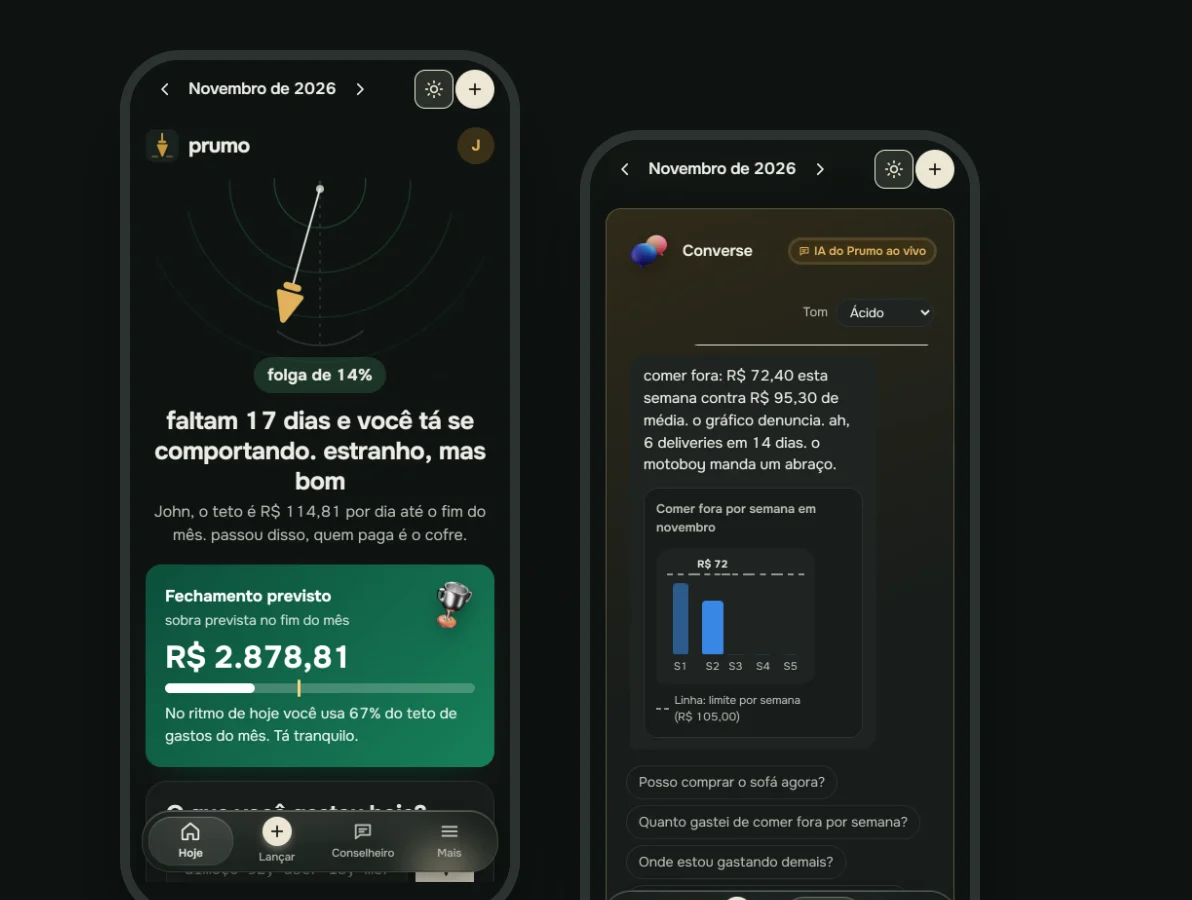
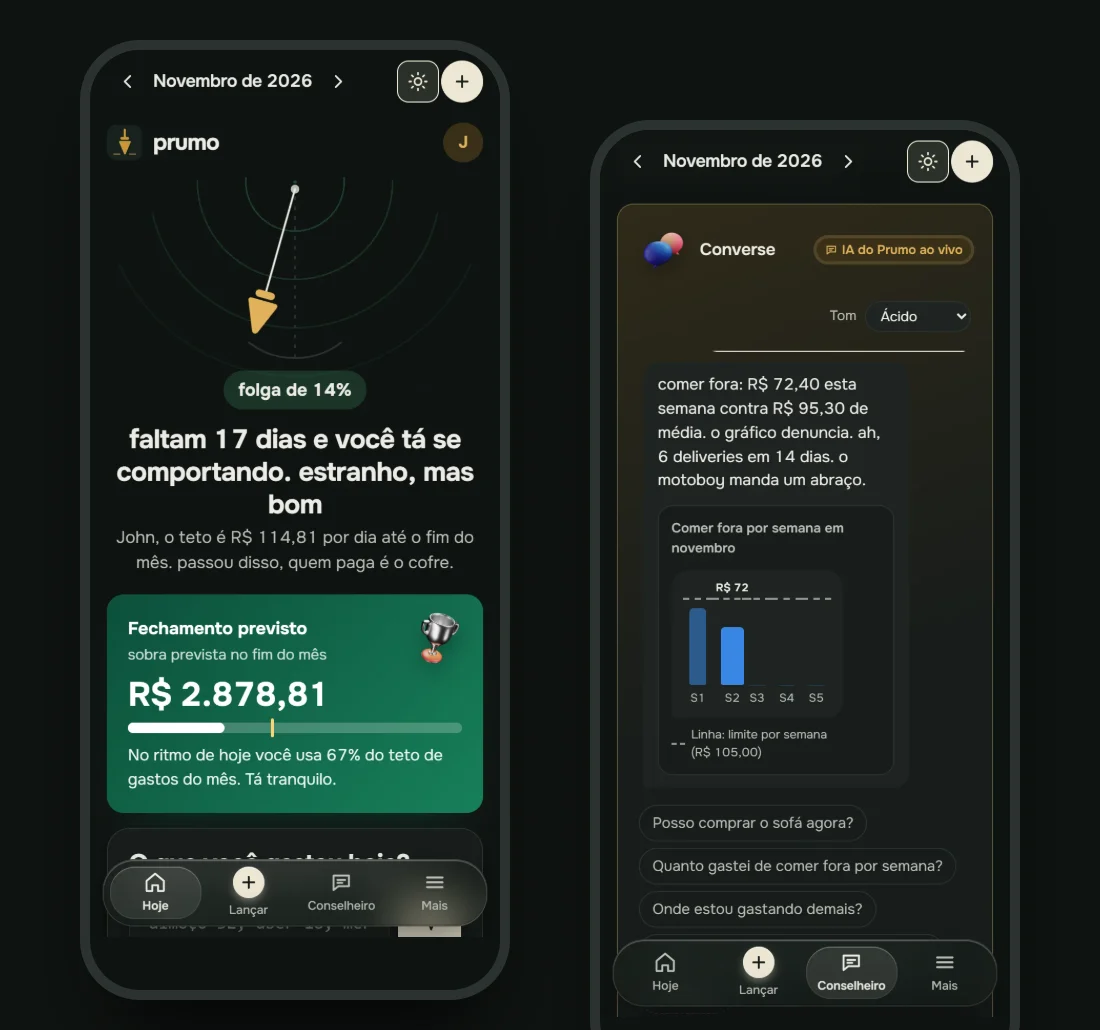
Prumo landing: correcoes de layout

diff --git a/prumo/index.html b/prumo/index.html
@@ -68,6 +68,7 @@
   .shot { overflow: hidden; border-radius: 12px; border: 1px solid rgba(237,230,211,.12); box-shadow: 0 30px 80px -30px rgba(0,0,0,.7); background: #0f1311; }
   .hero__art > .ly-piece--main.shot { bottom: var(--s-8); }
   .shot img { display: block; width: auto; height: 100%; max-width: none; }
+  @media (min-width: 640px) { .hero__art > .ly-piece--main.shot { inset: 40px 0 40px 0; } .hero__art > .ly-piece--main.shot img { width: 100%; height: 100%; object-fit: cover; object-position: center top; } .hero__art .ly-piece--note { top: auto; bottom: 0; left: 0; right: auto; } }
   @media (max-width: 1023px) { .hero__art > .ly-piece--main.shot { bottom: var(--s-6); } }
   @media (max-width: 639px) { .hero__art > .ly-piece--main.shot { bottom: var(--s-4); } }
   @media (max-width: 639px) { .hero__art > .ly-piece--main.shot { inset: 0; border-radius: 24px; overflow: hidden; } .hero__art > .ly-piece--main.shot img { width: 100%; height: 100%; object-fit: cover; object-position: center top; } .hero__art .ly-piece--note { display: none; } .shot--wide.m-swap img { object-position: center top; } }
@@ -123,8 +124,9 @@
   .shot--wide { margin-top: var(--s-7); min-height: 0; }
   .shot--wide img { width: 100%; height: 100%; object-fit: cover; object-position: left top; }
   #recursos .panel--shot { padding: 0; overflow: hidden; background: #171c19; }
-  #recursos .panel--shot img { width: 100%; height: 100%; object-fit: cover; object-position: left top; }
-  .stories--real { display: flex; justify-content: space-between; gap: 24px; min-height: 0; margin-top: var(--s-7); }
+  #recursos .panel--shot { aspect-ratio: 1440 / 900; }
+  #recursos .panel--shot img { width: 100%; height: 100%; object-fit: contain; object-position: center; }
+  .stories--real { display: flex; justify-content: center; flex-wrap: wrap; gap: 24px; min-height: 0; margin-top: var(--s-7); }
   .stories--real img { height: min(56vh, 540px); width: auto; min-width: 0; border-radius: 22px; }
   @media (max-width: 1023px) { .stories--real { gap: 16px; } .stories--real img { height: auto; width: calc((100% - 32px) / 3); } }
   @media (max-width: 767px) { .stories--real img { height: auto; width: min(100%, 300px); } .stories--real img:nth-child(n+2) { display: none; } }
@@ -185,7 +187,7 @@
         <p class="hero__proof">Fiz pra mim, que recebo salário e nota no mesmo mês.</p>
       </div>
       <div class="hero__art span-6 start-7" role="img" aria-label="Tela inicial do Prumo: o pêndulo que mostra se o mês está de pé, o fechamento previsto, a caixa para escrever os gastos e os cards de entrada, gasto e quanto pode gastar hoje">
-        <div class="ly-piece ly-piece--main shot" aria-hidden="true"><picture><source media="(max-width: 639px)" srcset="img/n-home-m.webp" width="780" height="1688"><img src="img/n-home-hero.webp" alt="" width="1192" height="900" fetchpriority="high"></picture></div>
+        <div class="ly-piece ly-piece--main shot" aria-hidden="true"><picture><source media="(max-width: 639px)" srcset="img/n-home-m.webp" width="780" height="1688"><img src="img/n-home-hero.webp" alt="" width="1100" height="1030" fetchpriority="high"></picture></div>
         <div class="ly-piece ly-piece--note ui ui-panel pv-note" aria-hidden="true" data-ly-steps="700">
           <div class="pv-note__q">almoço 32, uber 18, ifood 47,90</div>
           <div class="pv-note__row" data-step><span>Almoço · Comer fora</span><b>R$ 32,00</b></div>
